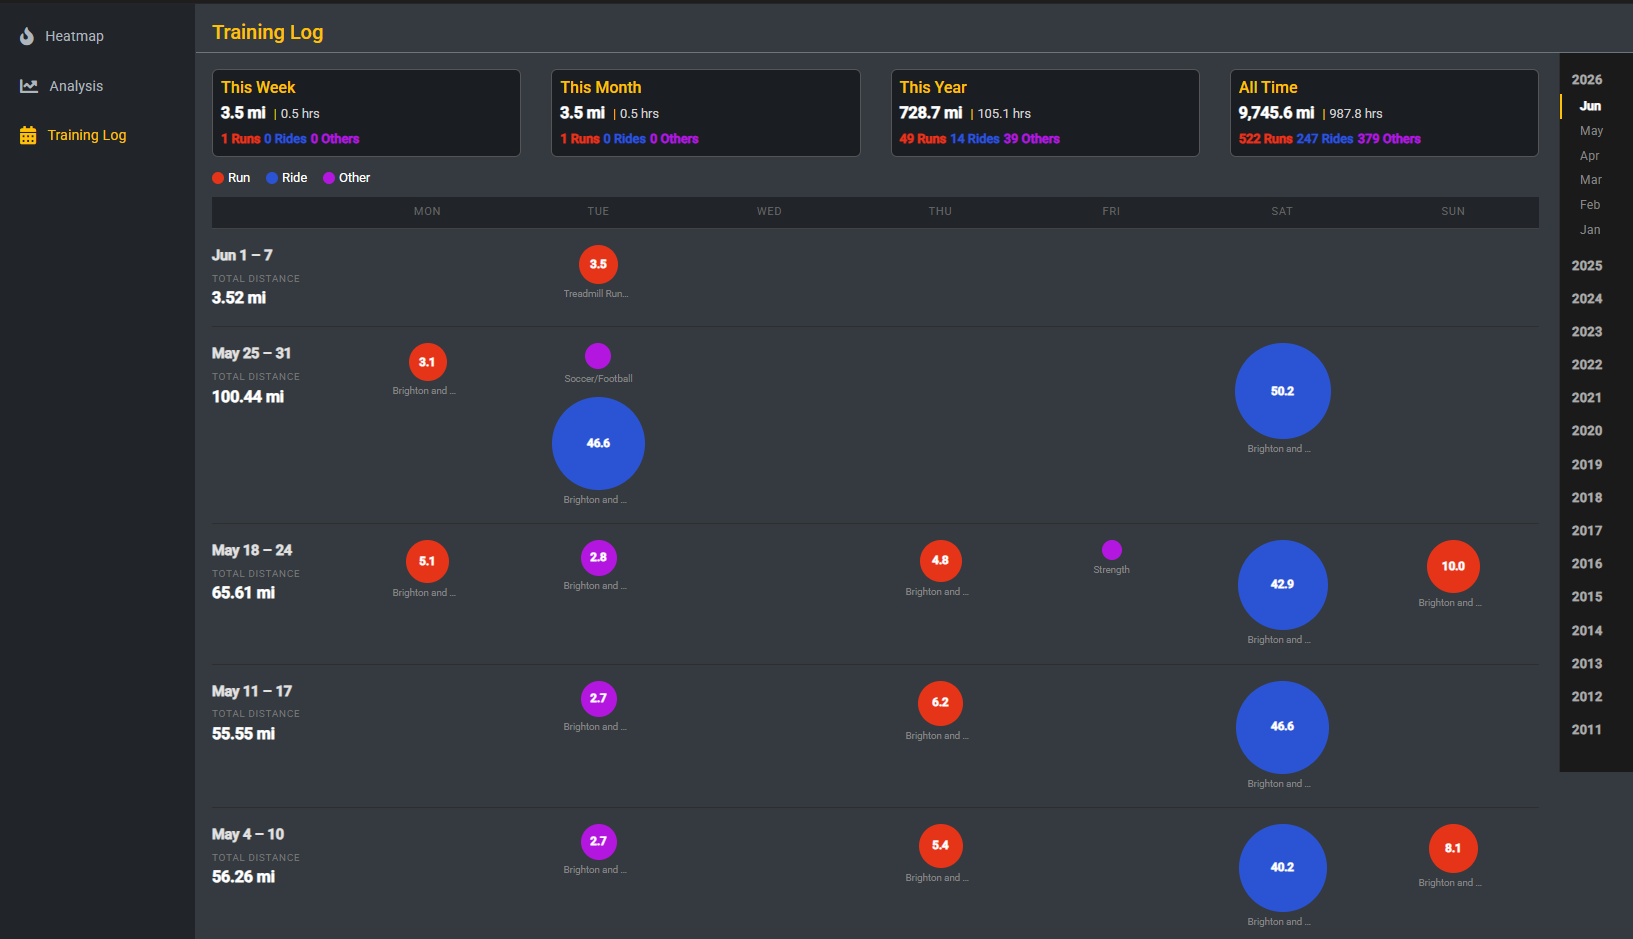
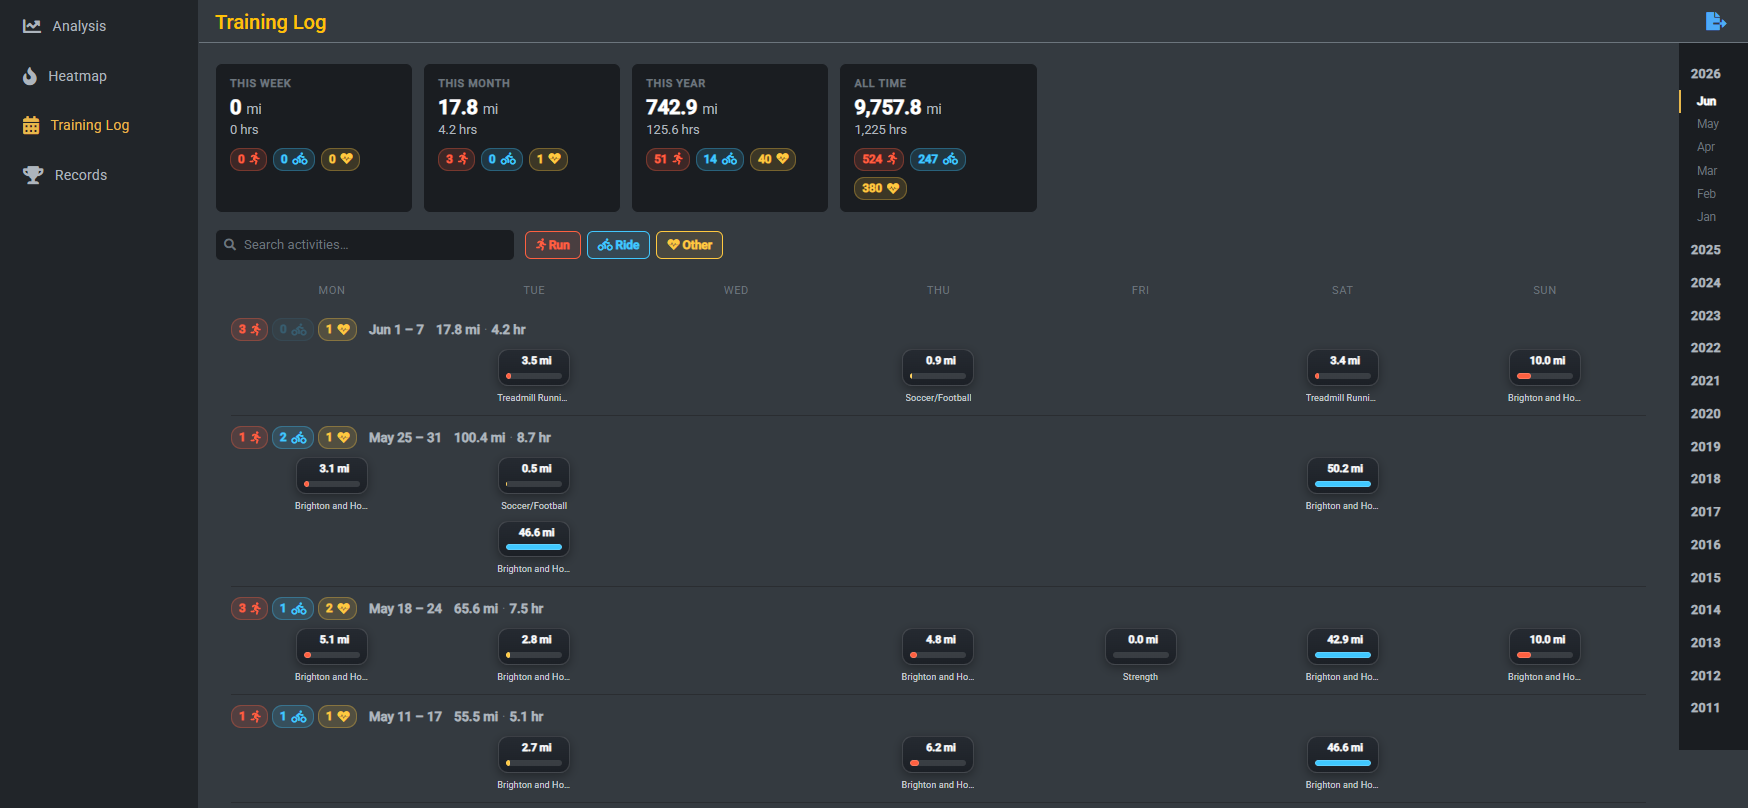
Change country resolver (#96)

Pull request: Change country resolver

diff --git a/src/app/analysis/analysis.component.ts b/src/app/analysis/analysis.component.ts
@@ -236,9 +236,18 @@ export class AnalysisComponent implements OnInit {
 
     this.activityService.getHealth().then((snapshots) => {
       this.healthSnapshots = snapshots;
+      // Prefer the most recent entry that has at least some non-null data so
+      // that an all-null placeholder for today doesn't blank out the display.
+      const withData = snapshots.filter(
+        (s) =>
+          s.vo2max_running != null ||
+          s.training_status != null ||
+          s.load_focus != null
+      );
+      const pool = withData.length > 0 ? withData : snapshots;
       this.latestHealth =
-        snapshots.length > 0
-          ? snapshots.reduce((a, b) => (a.date > b.date ? a : b))
+        pool.length > 0
+          ? pool.reduce((a, b) => (a.date > b.date ? a : b))
           : null;
       this.updateAlertCount();
     });
@@ -278,7 +287,9 @@ export class AnalysisComponent implements OnInit {
     );
   }
 
-  latestActivityIcon(a: Activity): string { return activityIcon(a); }
+  latestActivityIcon(a: Activity): string {
+    return activityIcon(a);
+  }
 
   latestDuration(a: Activity): string {
     const secs = a.duration ?? a.moving_time_seconds;
@@ -464,7 +475,9 @@ export class AnalysisComponent implements OnInit {
     return this.selectedDay.bands.find((b) => v >= b.min && v < b.max) ?? null;
   }
 
-  activityIcon(activity: Activity): string { return activityIcon(activity); }
+  activityIcon(activity: Activity): string {
+    return activityIcon(activity);
+  }
 
   // ── Training Assessment ─────────────────────────────────
   private _trainingInsightsCache: TrainingInsight[] | null = null;
@@ -510,9 +523,7 @@ export class AnalysisComponent implements OnInit {
 
     // 2. Weekly load trend (last 7d vs prior 7d)
     const last7 = this.activities
-      .filter((a) =>
-      dayjs(a.start_date).isAfter(now.subtract(7, 'days'))
-      )
+      .filter((a) => dayjs(a.start_date).isAfter(now.subtract(7, 'days')))
       .reduce((sum, a) => sum + (a.activityTrainingLoad ?? 0), 0);
     const prior7 = this.activities
       .filter((a) => {
@@ -694,10 +705,7 @@ export class AnalysisComponent implements OnInit {
 
     // 5. Days since last activity
     if (this.latestActivity) {
-      const daysSince = now.diff(
-        dayjs(this.latestActivity.start_date),
-        'days'
-      );
+      const daysSince = now.diff(dayjs(this.latestActivity.start_date), 'days');
       if (daysSince >= 7) {
         insights.push({
           icon: 'fas fa-bed',

diff --git a/src/app/utils/activity.utils.ts b/src/app/utils/activity.utils.ts
@@ -33,8 +33,10 @@ export function getDuration(seconds: number): string {
 export function activityIcon(activity: Activity): string {
   const t = (activity.activity_type ?? '').toLowerCase();
   if (t.includes('run')) return 'fas fa-running';
-  if (t.includes('cycl') || t.includes('ride') || t.includes('bike')) return 'fas fa-bicycle';
+  if (t.includes('cycl') || t.includes('ride') || t.includes('bike'))
+    return 'fas fa-bicycle';
   if (t.includes('swim')) return 'fas fa-swimmer';
+  if (t.includes('football') || t.includes('soccer')) return 'fas fa-futbol';
   return 'fas fa-dumbbell';
 }
 
@@ -46,11 +48,11 @@ export function activityColor(activity: Activity): string {
 
 export function formatActivityType(type: string): string {
   const labels: Record<string, string> = {
-    run:   'Run',
-    ride:  'Ride',
-    swim:  'Swim',
-    walk:  'Walk',
-    other: 'Other',
+    run: 'Run',
+    ride: 'Ride',
+    swim: 'Swim',
+    walk: 'Walk',
+    other: 'Other'
   };
   return labels[type] ?? type.charAt(0).toUpperCase() + type.slice(1);
 }

diff --git a/src/app/training-log/training-log.component.scss b/src/app/training-log/training-log.component.scss
@@ -207,7 +207,7 @@
 
 .week-days-row {
   display: grid;
-  grid-template-columns: repeat(7, 1fr);
+  grid-template-columns: repeat(7, minmax(72px, 1fr));
 }
 
 .day-header {

diff --git a/api/geocoder.py b/api/geocoder.py
@@ -1,57 +1,38 @@
-"""Lightweight reverse-geocoding helper using the reverse_geocoder package.
+"""Reverse-geocoding helper using the BigDataCloud free API (no key required).
 
-The package bundles a local dataset so no network calls are made.
-Returns the ISO 3166-1 alpha-2 country code (e.g. "GB", "FR") for a lat/lon
-pair, or None when the coordinates are missing.
+Used only for new activities that arrive without a country code.
+All existing activities were already backfilled, so this runs rarely.
 """
 from __future__ import annotations
 
 import logging
+import urllib.request
+import json
 
-_rg = None  # lazy-loaded singleton
 
-
-def _load():
-    global _rg
-    if _rg is None:
-        try:
-            import reverse_geocoder as rg
-            _rg = rg
-        except Exception as exc:  # pragma: no cover
-            logging.warning("reverse_geocoder not available: %s", exc)
-            _rg = False  # sentinel so we don't retry
+_BASE = "https://api.bigdatacloud.net/data/reverse-geocode-client"
 
 
 def country_code(lat: float | None, lon: float | None) -> str | None:
-    """Return ISO country code for the given coordinates, or None."""
+    """Return ISO 3166-1 alpha-2 country code for the given coordinates, or None."""
     if lat is None or lon is None:
         return None
-    _load()
-    if not _rg:
-        return None
     try:
-        results = _rg.search([(lat, lon)], verbose=False)
-        if results:
-            return results[0].get("cc") or None
+        url = f"{_BASE}?latitude={lat}&longitude={lon}&localityLanguage=en"
+        with urllib.request.urlopen(url, timeout=5) as resp:
+            data = json.loads(resp.read())
+        return data.get("countryCode") or None
     except Exception as exc:
-        logging.warning("reverse_geocoder.search failed: %s", exc)
-    return None
+        logging.warning("reverse geocode failed (%s, %s): %s", lat, lon, exc)
+        return None
 
 
 def fill_countries(activities: list) -> bool:
-    """Batch-fill the 'country' field for activities that need geocoding.
+    """Fill the 'country' field for activities that need geocoding.
 
-    Processes activities where country is missing entirely, or where coordinates
-    are present but country is null (e.g. geocoding failed on a previous attempt).
-    Returns True if any were changed.
+    Only processes activities where coordinates are present but country is
+    null/missing. Returns True if any were changed.
     """
-    _load()
-    if not _rg:
-        return False
-
-    changed = False
-
-    # Activities with coords where country is null or missing → geocode them
     to_geocode = [
         (i, act)
         for i, act in enumerate(activities)
@@ -60,7 +41,6 @@ def fill_countries(activities: list) -> bool:
         and act.get("country") is None
     ]
 
-    # Activities with no coords that are missing the key entirely → mark null
     to_nullify = [
         (i, act)
         for i, act in enumerate(activities)
@@ -68,20 +48,18 @@ def fill_countries(activities: list) -> bool:
         and (act.get("start_latitude") is None or act.get("start_longitude") is None)
     ]
 
+    if not to_geocode and not to_nullify:
+        return False
+
+    changed = False
+
     for _, act in to_nullify:
         act["country"] = None
         changed = True
 
-    if to_geocode:
-        coords = [(act["start_latitude"], act["start_longitude"]) for _, act in to_geocode]
-        try:
-            results = _rg.search(coords, verbose=False)
-            for (_, act), result in zip(to_geocode, results):
-                cc = result.get("cc") or None
-                act["country"] = cc
-                if cc is not None:
-                    changed = True
-        except Exception as exc:
-            logging.warning("reverse_geocoder.search failed: %s", exc)
+    for _, act in to_geocode:
+        cc = country_code(act["start_latitude"], act["start_longitude"])
+        act["country"] = cc
+        changed = True
 
     return changed